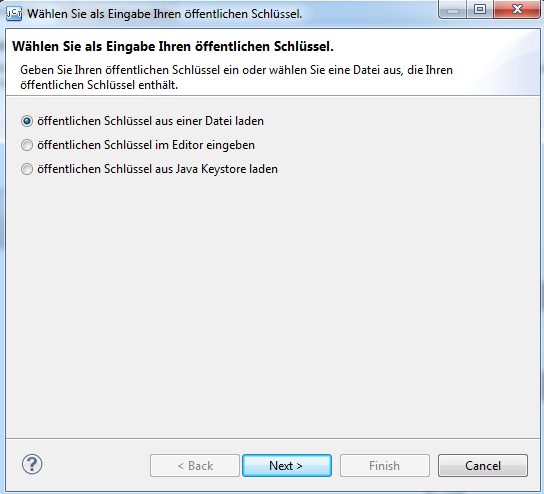
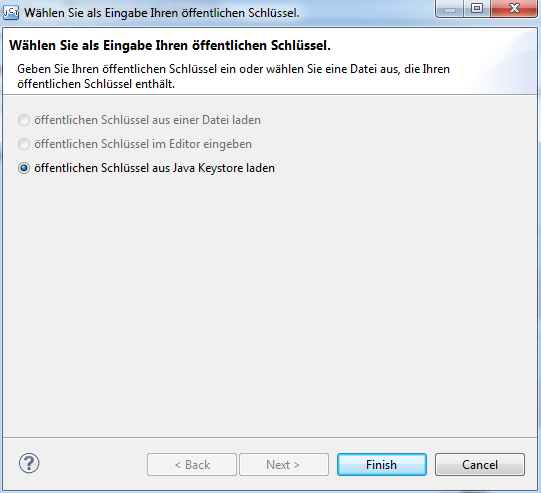
Erweiterung der Onlinehilfe

diff --git a/nl/de/help/content/index.html b/nl/de/help/content/index.html
@@ -9,13 +9,13 @@
         <p>
 		Willkommen in der Online Hilfe des Plug-Ins zur Visualisierung der Signaturverifizierung.
 		Nachfolgenden finden Sie einen Überblick des Plug-Ins sowie eine detaillierte Erklärung zu jeden Schritt des Signaturverifizierungsprozesses. 
-		Hier kommen Sie zur Hilfe der <a href="#GUI2">Validierung von Zertifikaten nach dem Schalenmodell. </a>
+		Hier kommen Sie zur Hilfe der <a href="#GUI2">Validierung von Zertifikaten nach Gültigkeitsmodellen. </a>
         <br>
 		Die Visualisierung soll die Verifizierung einer Signatur für ein bestimmtes signiertes Dokument zeigen.
 		Eine digitale Signatur kann zur Authentisierung der Identität des Senders oder des Unterzeichners des Dokuments genutzt werden. 
 		Sie sichert außerdem die Integrität des Dokumentes selbst.
 		</p>
-		<!--Bild der 1. Oberfläche (kommt noch)<img src="MainStart.png"> -->
+		<img src="GUI1.png"> 
 		<h2>Allgemeine Informationen</h2>
         <h3>Schritt zurück-Funktion</h3>
 		<p>Schrittweises zurückgehen. Alle vorgenommenen Änderungen oder Einstellungen bleiben gespeichert, bis zu dem Schritt zu dem man zurück geht.</p>
@@ -56,14 +56,13 @@
         <p>Eine Mask Generation Function (MGF) ist eine Funktion zum Generieren von Pseudozufallszahlen in beliebiger Länge. Ohne Kenntnis über den Startwert (Seed), ist es praktisch nicht möglich die Zufallszahlen vorherzusagen. MGF1 ist ein in der PKCS#1 spezifiziertes Verfahren, welches Hash-Funktionen wie SHA-1 einsetzt, um Pseudozufallszahlen zu generieren.</p>
         
 		<h3>Öffentlichen Schlüssel auswählen</h3>
-		<p>Nun benötigen Sie noch den öffentlichen Schlüssel. Wurde die Signatur mit einen Schlüssel signiert, der vom Standard-JCT-Keystore zu Verfügung gestellt wurde, kann dieser mit der Option "öffentlichen Schlüssel aus Java Keystore laden" geladen werden. Ansonten können Sie den öffentlichen Schlüssel aus einer Datei, die Sie auswählen müssen, auslesen lassen, oder Sie geben den öffentlichen Schlüssel manuell im Editor ein.</p>
+		<p>Nun benötigen Sie noch den öffentlichen Schlüssel. Wurde die Signatur mit einen Schlüssel signiert, der vom Standard-JCT-Keystore zu Verfügung gestellt wurde, kann dieser mit der Option "öffentlichen Schlüssel aus Java Keystore laden" geladen werden.</p>
 		<img src="SchlusselAuswahlen.png">
-		<img src="SchlusselAusDatei.png">
-		<img src="SchlusselEditor.png">
+
 		
         <h2>Schritt 4 – Ergebnis anzeigen</h2>
-        <!-- Bild mit grünem Hackn/ rotes Kreutz bei Ergebnis anzeigen (muss ich noch machen)<img src="MainFinished.png">
-        <img src="MainFinished.png">-->
+        <img src="Hacken.png">
+        <img src="Kreutz.png">
         <p>Wenn die Signatur als gültig verifiziert wurde, erscheint ein grüner Hacken neben dem Button "Ergebnis anzeigen", ansonsten erscheint ein rotes Kreutz. Für nähere Informationen des Ergebnisses, klicken Sie auf den Button „Ergebnis anzeigen“. Dort finden Sie alle relevanten Informationen zu der verifizierten Signatur:</p>
         <ul>
             <li>Den verwendeten Schlüssel/ verwendete Kurve</li>
@@ -74,7 +73,26 @@
         <p>Klicken Sie auf den Button “Gültigkeitsmodelle” um sich die Verifizierung von Zertifikaten nach dem Schalenmodell genauer anzusehen.</p>
 		<img src="ErgebnisAnzeigen.png">
 		
-		<h1><a id=GUI2>Hilfe der Validierung von Zertifikaten nach dem Schalenmodell</a></h1>
-		<p>Folgt in Kürze</p>
+		<h1><a id=GUI2>Hilfe der Validierung von Zertifikaten nach Gültigkeitsmodellen</a></h1>
+		<p>Diese für Lernzwecke erstellte Oberfläche zeigt, wie sich die Verwendung unterschiedlicher Gültigkeitsmodelle (Schalenmodell, Kettenmodell) auf die Gültigkeit von Zertifikaten auswirkt</p>
+		<h2>Schalenmodell</h2>
+		<p>Beim Schalenmodell wird eine Signatur nur als gültig erklärt, wenn zum Überprüfungszeitpunkt alle Zertifikate gültig sind. Dh. wenn zur Überprüfung zwar das Teilnehmer-Zertifikat und das Level 2-Zertifikat noch gültig, das Wurzel-Zertifikat aber nicht mehr gültig ist, dann wird die Signatur als ungültig erklärt.</p>
+		<h3>Zertifikate</h3>
+		<h4>Wurzel-Zertifikat</h4>
+		<p>Oberstes Zertifikat, welches die Gültigkeit aller untergeordneten Zertifikate bestätigt.</p>
+		<h4>Level 2-Zertifikat</h4>
+		<p>Dieses Zertifikat verweist auf das Wurzel-Zertifikat, denn es wurde von diesem signiert um dessen Korrektheit zu signalisieren.</p>
+		<h4>Teilnehmen-Zertifikat</h4>
+		<p>Das Teilnehmer-Zertifkat ist das unterste Zertifikat in der Zertifikatskette. Damit dieses Zertifikat als gültig verifiziert wird, müssen sowohl das Teilnehmer-Zertifikat sowie auch alle anderen Zertifikate der Kette (in diesem Fall das Teilnehmer- und das Wurzel-Zertifikat) gültig sein.</p>
+		<h3>Aktionen</h3>
+		<h4>Schalenmodell | Kettenmodell</h4>
+		<p>Auswahlmöglichkeit zwischen dem Schalenmodell und dem Kettenmodell. Achtung! Bis jetzt ist nur das Schalenmodell implementiert und steht somit als einziges Gültigkeitsmodell zur Verfügung</p>
+		<h4>Schritt zurück</h4>
+		<p>Schrittweises zurückgehen. Alle vorgenommenen Änderungen oder Einstellungen bleiben gespeichert, bis zu dem Schritt zu dem man zurück geht.</p>
+		<h4>Gültigkeitsdaten</h4>
+		<p>Hier können Sie die Gültigkeiten der einzelnen Zertifikate umstellen und die Auswirkungen auf die Gesamtgültigkeit betrachten. Dazu müssen Sie noch auf "Ergebnis neu berechnen" klicken.</p>
+		<h4>Ergebnis neu berechnen</h4>
+		<p>Berechnet die Gültigkeit neu und entscheidet nach dem Schalenmodell ob die Zertifikatskette gültig ist oder nicht. Ist sie immer noch gültig, erscheint wieder ein grüner Hacken, ansonsten erscheind ein rotes Kreutz</p>
+		<!-- ein paar Bilder zur 2. Oberfläche-->
     </body>
 </html>
